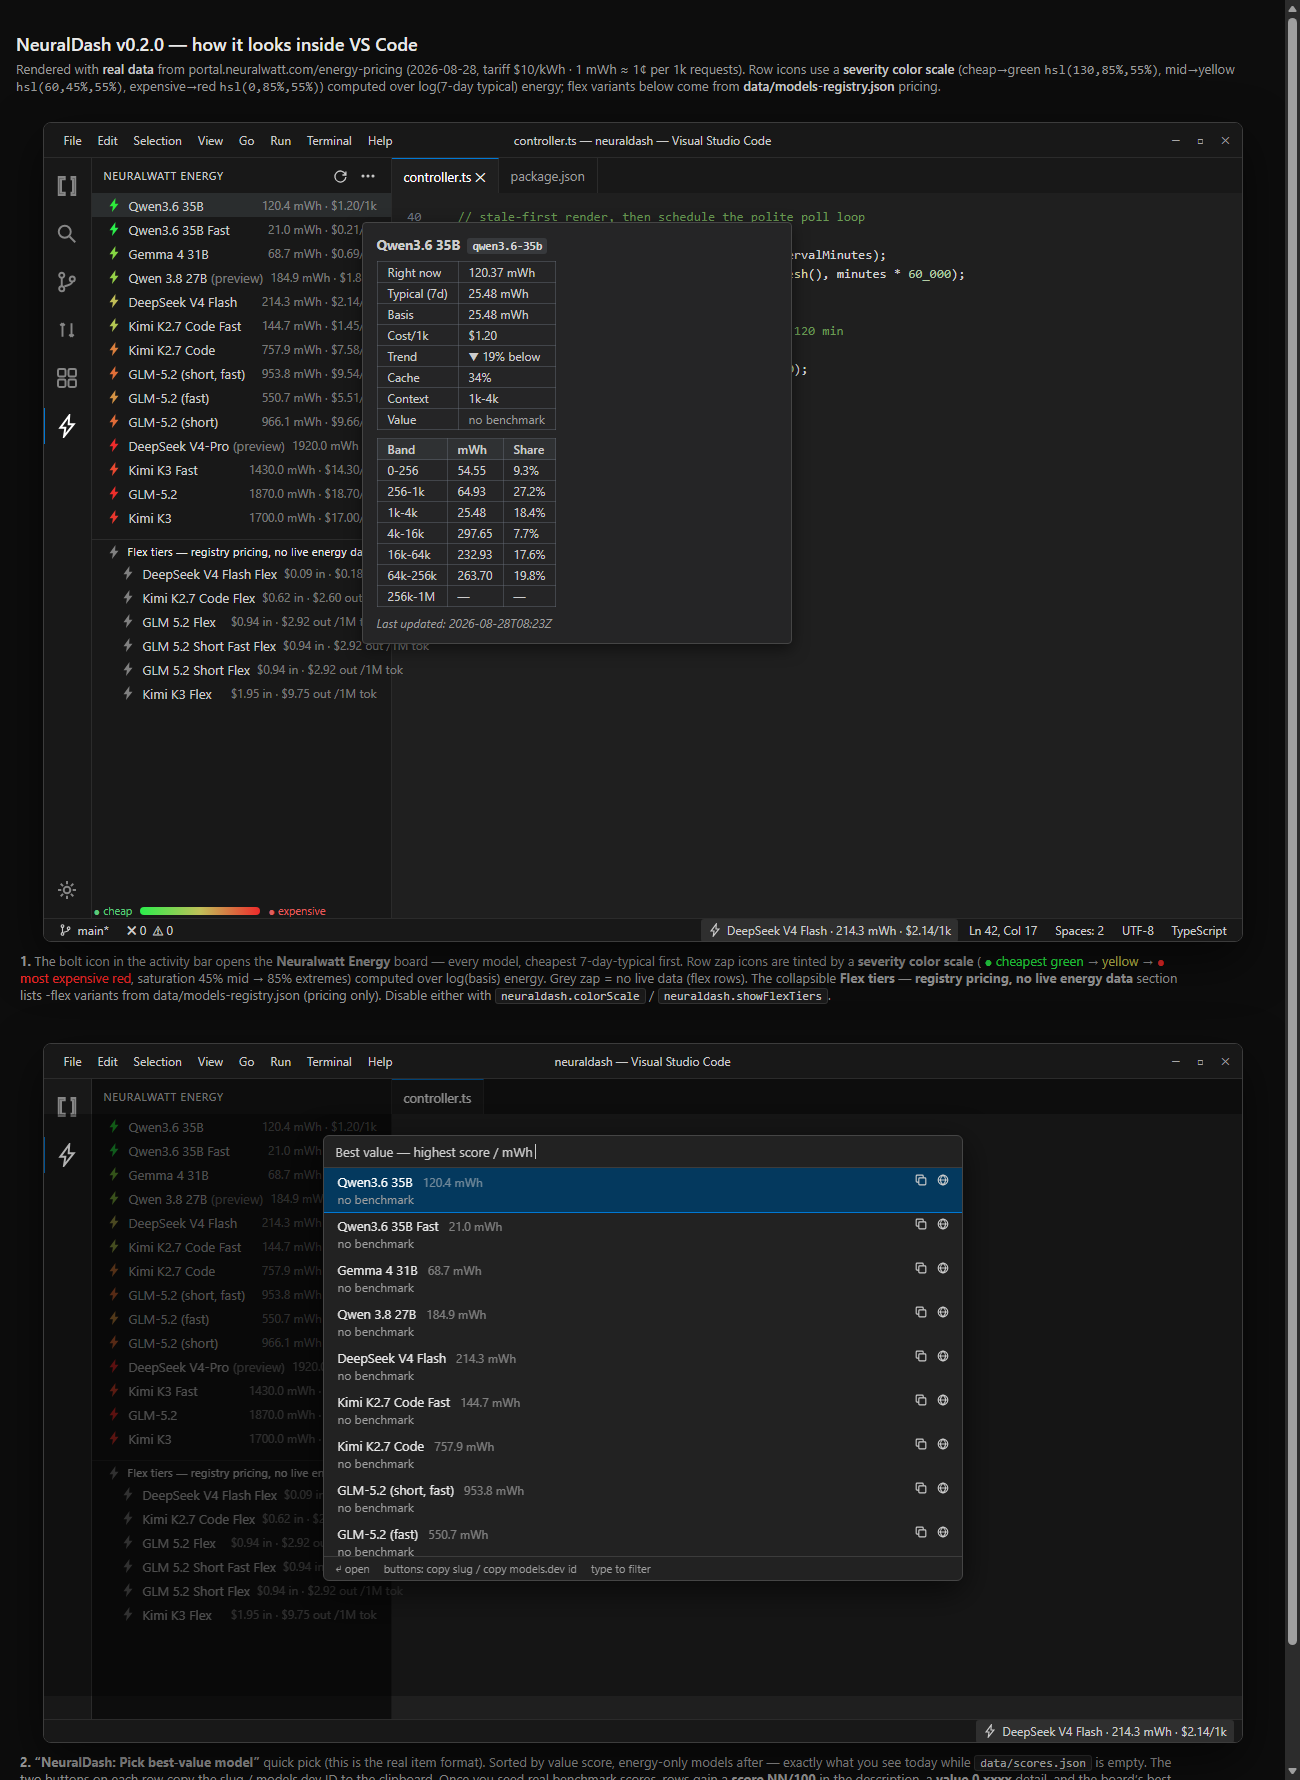
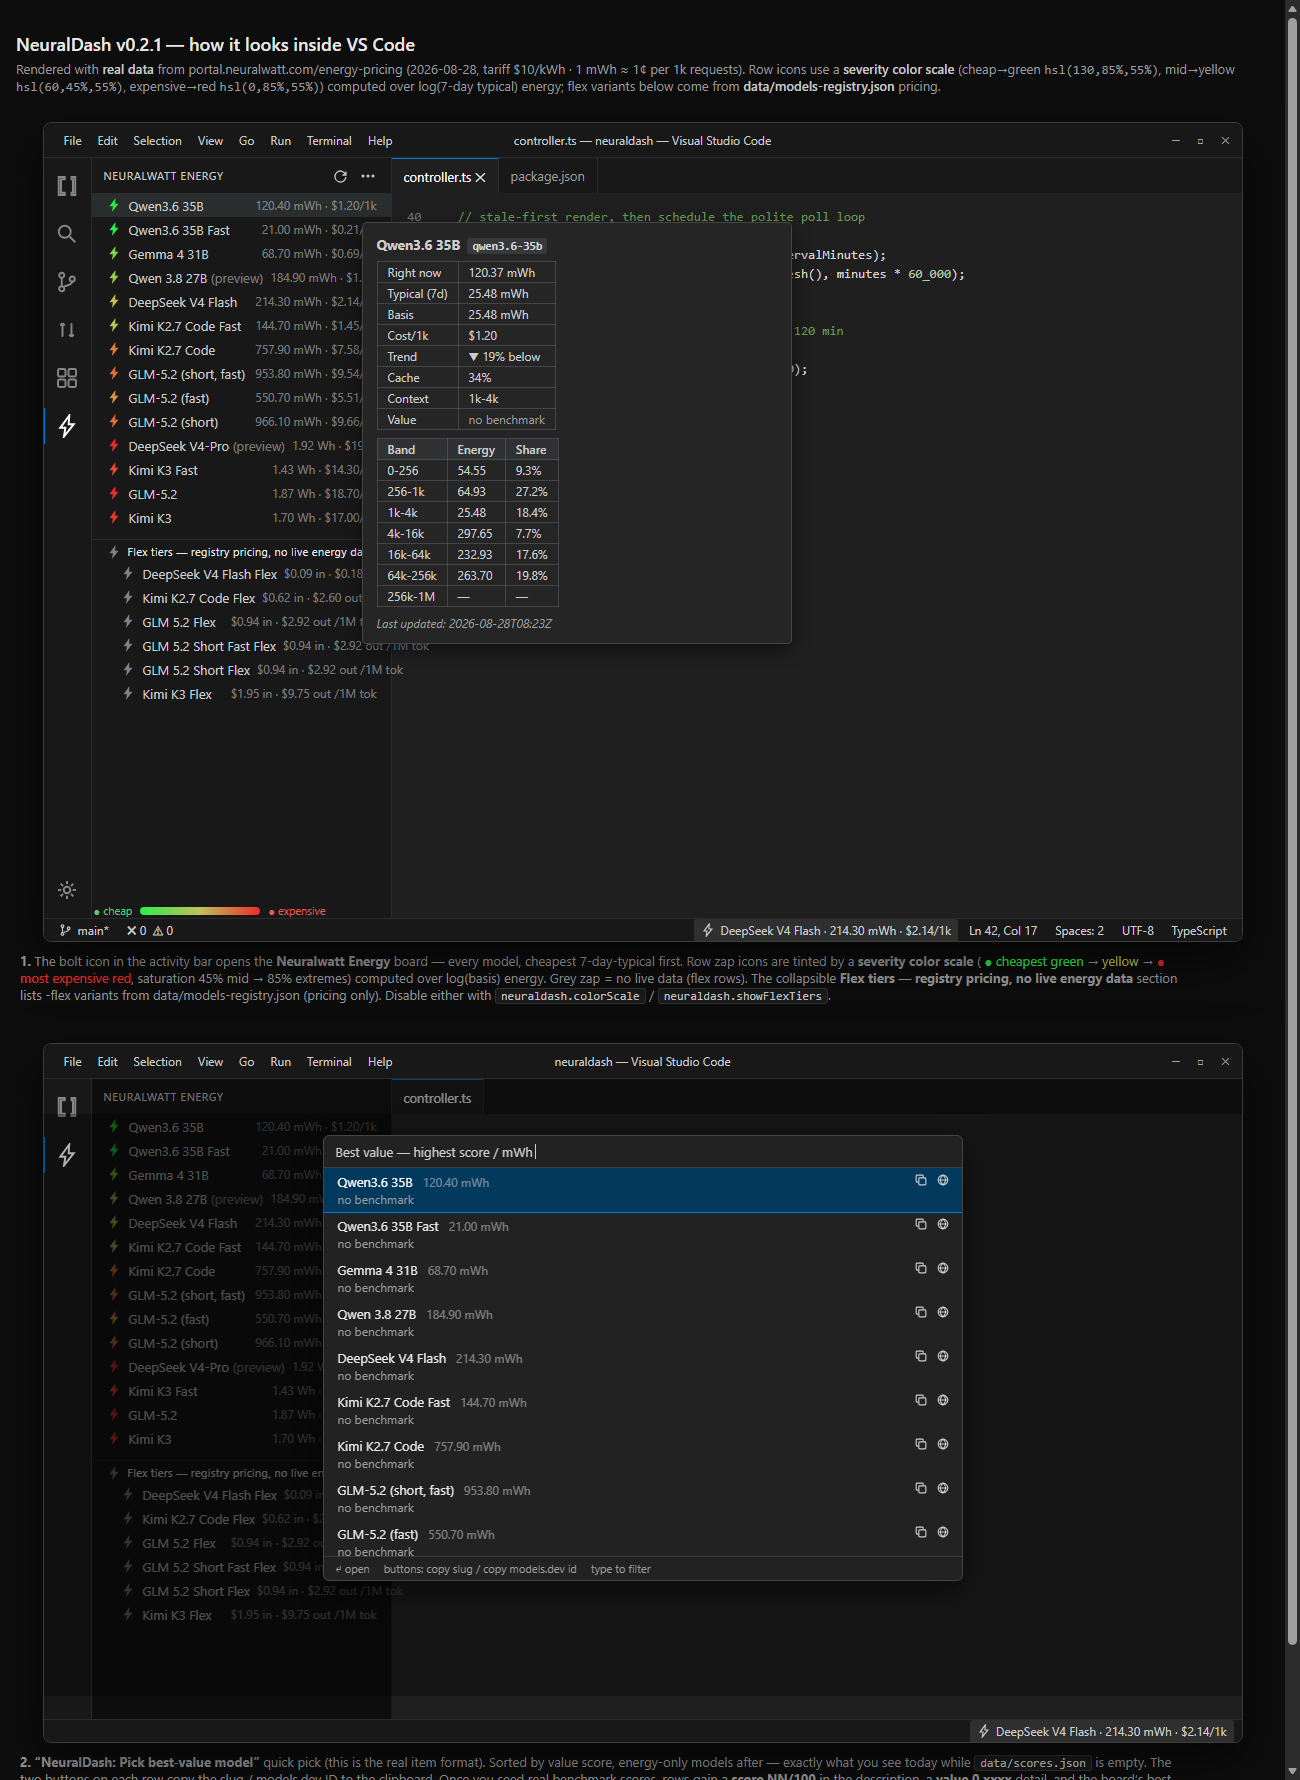
feat: display energy in Wh when >= 1000 mWh (v0.2.1)

diff --git a/docs/ui-preview.html b/docs/ui-preview.html
@@ -104,7 +104,7 @@
 </head>
 <body>
 
-<h1>NeuralDash v0.2.0 — how it looks inside VS Code</h1>
+<h1>NeuralDash v0.2.1 — how it looks inside VS Code</h1>
 <div class="sub">Rendered with <b>real data</b> from portal.neuralwatt.com/energy-pricing (2026-08-28, tariff $10/kWh · 1 mWh ≈ 1¢ per 1k requests). Row icons use a <b>severity color scale</b> (cheap→green <code>hsl(130,85%,55%)</code>, mid→yellow <code>hsl(60,45%,55%)</code>, expensive→red <code>hsl(0,85%,55%)</code>) computed over log(7-day typical) energy; flex variants below come from <b>data/models-registry.json</b> pricing.</div>
 
 <!-- ================= WINDOW 1 : board + tooltip ================= -->
@@ -165,7 +165,7 @@
         <tr><td>Value</td><td class="nb">no benchmark</td></tr>
       </table>
       <table>
-        <tr><th>Band</th><th>mWh</th><th>Share</th></tr>
+        <tr><th>Band</th><th>Energy</th><th>Share</th></tr>
         <tr><td>0-256</td><td>54.55</td><td>9.3%</td></tr>
         <tr><td>256-1k</td><td>64.93</td><td>27.2%</td></tr>
         <tr><td>1k-4k</td><td>25.48</td><td>18.4%</td></tr>
@@ -180,7 +180,7 @@
   <div class="statusbar">
     <div class="sitem"><svg viewBox="0 0 16 16"><circle cx="4" cy="3.5" r="1.5"/><circle cx="4" cy="12.5" r="1.5"/><circle cx="11" cy="6" r="1.5"/><path d="M4 5v6M11 7.5C11 10 7.5 9.6 5.5 10.6"/></svg> main*</div>
     <div class="sitem">&#x2716; 0 &nbsp;&#x26A0; 0</div>
-    <div class="sitem pushright mymodel"><svg class="zap" viewBox="0 0 16 16"><path d="M9.5 1 3.5 9.2h3.4L6 15l6.5-8.2H9.1L9.5 1z"/></svg> DeepSeek V4 Flash &middot; 214.3 mWh &middot; $2.14/1k</div>
+    <div class="sitem pushright mymodel"><svg class="zap" viewBox="0 0 16 16"><path d="M9.5 1 3.5 9.2h3.4L6 15l6.5-8.2H9.1L9.5 1z"/></svg> DeepSeek V4 Flash &middot; 214.30 mWh &middot; $2.14/1k</div>
     <div class="sitem">Ln 42, Col 17</div>
     <div class="sitem">Spaces: 2</div>
     <div class="sitem">UTF-8</div>
@@ -215,7 +215,7 @@
     </div>
   </div>
   <div class="statusbar">
-    <div class="sitem pushright mymodel"><svg class="zap" viewBox="0 0 16 16"><path d="M9.5 1 3.5 9.2h3.4L6 15l6.5-8.2H9.1L9.5 1z"/></svg> DeepSeek V4 Flash &middot; 214.3 mWh &middot; $2.14/1k</div>
+    <div class="sitem pushright mymodel"><svg class="zap" viewBox="0 0 16 16"><path d="M9.5 1 3.5 9.2h3.4L6 15l6.5-8.2H9.1L9.5 1z"/></svg> DeepSeek V4 Flash &middot; 214.30 mWh &middot; $2.14/1k</div>
   </div>
 </div>
 <div class="caption"><b>2.</b> <b>&ldquo;NeuralDash: Pick best-value model&rdquo;</b> quick pick (this is the real item format). Sorted by value score, energy-only models after &mdash; exactly what you see today while <code>data/scores.json</code> is empty. The two buttons on each row copy the slug / models.dev ID to the clipboard. Once you seed real benchmark scores, rows gain a <b>score&nbsp;NN/100</b> in the description, a <b>value 0.xxxx</b> detail, and the board&rsquo;s best model gets a &#9733; star icon.</div>
@@ -278,20 +278,20 @@
   ];
   const greySvg = zapSvg("#808080");
   const rows = [
-    ["Qwen3.6 35B",            false, "120.4 mWh · $1.20/1k"],
-    ["Qwen3.6 35B Fast",       false, "21.0 mWh · $0.21/1k"],
-    ["Gemma 4 31B",            false, "68.7 mWh · $0.69/1k"],
-    ["Qwen 3.8 27B",           true,  "184.9 mWh · $1.85/1k"],
-    ["DeepSeek V4 Flash",      false, "214.3 mWh · $2.14/1k"],
-    ["Kimi K2.7 Code Fast",    false, "144.7 mWh · $1.45/1k"],
-    ["Kimi K2.7 Code",         false, "757.9 mWh · $7.58/1k"],
-    ["GLM-5.2 (short, fast)",  false, "953.8 mWh · $9.54/1k"],
-    ["GLM-5.2 (fast)",         false, "550.7 mWh · $5.51/1k"],
-    ["GLM-5.2 (short)",        false, "966.1 mWh · $9.66/1k"],
-    ["DeepSeek V4-Pro",        true,  "1920.0 mWh · $19.20/1k"],
-    ["Kimi K3 Fast",           false, "1430.0 mWh · $14.30/1k"],
-    ["GLM-5.2",                false, "1870.0 mWh · $18.70/1k"],
-    ["Kimi K3",                false, "1700.0 mWh · $17.00/1k"],
+    ["Qwen3.6 35B",            false, "120.40 mWh · $1.20/1k"],
+    ["Qwen3.6 35B Fast",       false, "21.00 mWh · $0.21/1k"],
+    ["Gemma 4 31B",            false, "68.70 mWh · $0.69/1k"],
+    ["Qwen 3.8 27B",           true,  "184.90 mWh · $1.85/1k"],
+    ["DeepSeek V4 Flash",      false, "214.30 mWh · $2.14/1k"],
+    ["Kimi K2.7 Code Fast",    false, "144.70 mWh · $1.45/1k"],
+    ["Kimi K2.7 Code",         false, "757.90 mWh · $7.58/1k"],
+    ["GLM-5.2 (short, fast)",  false, "953.80 mWh · $9.54/1k"],
+    ["GLM-5.2 (fast)",         false, "550.70 mWh · $5.51/1k"],
+    ["GLM-5.2 (short)",        false, "966.10 mWh · $9.66/1k"],
+    ["DeepSeek V4-Pro",        true,  "1.92 Wh · $19.20/1k"],
+    ["Kimi K3 Fast",           false, "1.43 Wh · $14.30/1k"],
+    ["GLM-5.2",                false, "1.87 Wh · $18.70/1k"],
+    ["Kimi K3",                false, "1.70 Wh · $17.00/1k"],
   ];
   function boardHTML(){
     const boardRows = rows.map((r,i) => {

diff --git a/src/ui/treeProvider.ts b/src/ui/treeProvider.ts
@@ -1,6 +1,6 @@
 import * as vscode from "vscode";
 import type { Snapshot, ValuedQuote, SortOrder } from "../core/types";
-import { costPer1kUsd } from "../core/energy";
+import { costPer1kUsd, formatMwh } from "../core/energy";
 import { computeSeverityScale, basisToSvgUri, severityOf } from "../core/color";
 import type { SeverityScale } from "../core/color";
 import type { RegistryModel } from "../core/flex";
@@ -183,7 +183,7 @@ export class BoardTreeProvider implements vscode.TreeDataProvider<vscode.TreeIte
     const mwh = v.descriptionMwh;
     const cost = costPer1kUsd(mwh, this.tariff);
     if (mwh != null) {
-      item.description = `${mwh.toFixed(1)} mWh · $${(cost ?? 0).toFixed(2)}/1k`;
+      item.description = `${formatMwh(mwh)} · $${(cost ?? 0).toFixed(2)}/1k`;
     } else {
       item.description = "-";
     }
@@ -207,9 +207,9 @@ export class BoardTreeProvider implements vscode.TreeDataProvider<vscode.TreeIte
     lines.push("");
     lines.push(`| Field | Value |`);
     lines.push(`|---|---|`);
-    const rightNowStr = v.quote.rightNowMwh != null ? `${v.quote.rightNowMwh.toFixed(2)} mWh` : "-";
-    const typicalStr = v.quote.typicalMwh != null ? `${v.quote.typicalMwh.toFixed(2)} mWh` : "-";
-    const basisStr = v.basisMwh != null ? `${v.basisMwh.toFixed(2)} mWh` : "—";
+    const rightNowStr = formatMwh(v.quote.rightNowMwh);
+    const typicalStr = formatMwh(v.quote.typicalMwh);
+    const basisStr = v.basisMwh != null ? formatMwh(v.basisMwh) : "—";
     lines.push(`| Right now | ${rightNowStr} |`);
     lines.push(`| Typical (7d) | ${typicalStr} |`);
     lines.push(`| Basis | ${basisStr} |`);
@@ -229,10 +229,10 @@ export class BoardTreeProvider implements vscode.TreeDataProvider<vscode.TreeIte
     else lines.push(`| Value | no benchmark |`);
     if (v.quote.bands.length > 0) {
       lines.push("");
-      lines.push(`| Band | mWh | Share |`);
+      lines.push(`| Band | Energy | Share |`);
       lines.push(`|---|---|---|`);
       for (const b of v.quote.bands) {
-        const m = b.mwh != null ? `${b.mwh.toFixed(2)}` : "—";
+        const m = b.mwh != null ? formatMwh(b.mwh) : "—";
         const s = b.sharePct != null ? `${b.sharePct.toFixed(1)}%` : "—";
         lines.push(`| ${escapeMarkdown(b.band)} | ${m} | ${s} |`);
       }

diff --git a/src/ui/statusBar.ts b/src/ui/statusBar.ts
@@ -1,5 +1,6 @@
 import * as vscode from "vscode";
 import type { ValuedQuote } from "../core/types";
+import { formatMwh } from "../core/energy";
 
 export class StatusBarController {
   private item: vscode.StatusBarItem;
@@ -23,8 +24,8 @@ export class StatusBarController {
     const mwh = match.descriptionMwh;
     const cost = match.costPer1kUsd;
     const costStr = cost != null ? `$${cost.toFixed(2)}/1k` : "-";
-    this.item.text = `$(zap) ${match.quote.displayName} · ${mwh.toFixed(1)} mWh · ${costStr}`;
-    this.item.tooltip = `${match.quote.displayName} — ${mwh.toFixed(2)} mWh (${costStr})`;
+    this.item.text = `$(zap) ${match.quote.displayName} · ${formatMwh(mwh)} · ${costStr}`;
+    this.item.tooltip = `${match.quote.displayName} — ${formatMwh(mwh)} (${costStr})`;
     this.item.show();
   }
 

diff --git a/src/ui/quickPicks.ts b/src/ui/quickPicks.ts
@@ -1,5 +1,6 @@
 import * as vscode from "vscode";
 import type { ValuedQuote } from "../core/types";
+import { formatMwh } from "../core/energy";
 
 export async function pickBestValueQuickPick(valued: ValuedQuote[]): Promise<void> {
   const sorted = [...valued].sort((a, b) => {
@@ -23,7 +24,7 @@ export async function pickBestValueQuickPick(valued: ValuedQuote[]): Promise<voi
 
   const items: (vscode.QuickPickItem & { slug: string; modelId?: string })[] = sorted.map((v) => ({
     label: `${v.quote.displayName}`,
-    description: v.basisMwh != null ? `${v.basisMwh.toFixed(1)} mWh` : "—",
+    description: v.basisMwh != null ? formatMwh(v.basisMwh) : "—",
     detail: v.value != null ? `value ${v.value.toFixed(4)}` : "no benchmark",
     slug: v.quote.slug,
     buttons: [

diff --git a/test/energy.test.ts b/test/energy.test.ts
@@ -50,6 +50,19 @@ describe("energy.cost helpers", () => {
   });
 });
 
+describe("energy.formatMwh", () => {
+  it("formats sub-1000 values as mWh with 2 decimals", () => {
+    assert.equal(formatMwh(999.99), "999.99 mWh");
+    assert.equal(formatMwh(0), "0.00 mWh");
+  });
+  it("formats values >= 1000 as Wh with 2 decimals", () => {
+    assert.equal(formatMwh(1000), "1.00 Wh");
+    assert.equal(formatMwh(1920), "1.92 Wh");
+  });
+  it("formats null as dash", () => {
+    assert.equal(formatMwh(null), "-");
+  });
+});
 describe("energy.humanizeAge", () => {
   it("just now <60s", () => {
     const now = new Date("2026-08-28T12:00:30.000Z");

diff --git a/README.md b/README.md
@@ -7,7 +7,7 @@ Live NeuralWatt **energy-per-request** board inside VS Code. Shows `Right now` a
 - Tree view `NeuralWatt` → `Energy Board` lists all models with energy and cost per 1k requests.
 - Tooltips with full per-band table, trend, cache hit %, and benchmark value.
 - Value ranking: `value = performanceScore / basisMwh` (basis from `preferredBand`).
-- Status bar — pins your chosen model (`neuraldash.myModel`) as `⚡ <name> · 245.5 mWh · $2.45/1k`.
+- Status bar — pins your chosen model (`neuraldash.myModel`) as `⚡ <name> · 245.48 mWh · $2.45/1k`.
 - Polling with ETag / `If-None-Match`, 30s timeout, failure backoff (cap 120 min).
 
 ## Configuration
